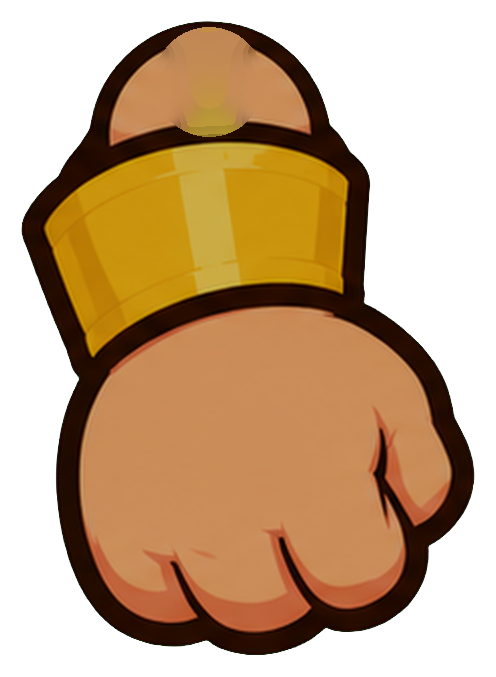
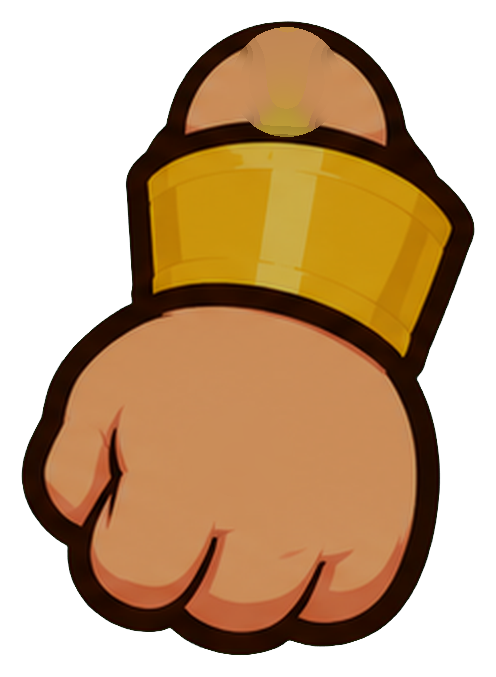
Zeus: antebraço de trás espelhado (não é mais cópia idêntica do da frente)
- extract_rig: 'mirror' vira a cópia e espelha pivô e encaixes

diff --git a/tools/extract_rig.py b/tools/extract_rig.py
@@ -82,10 +82,13 @@ for sheet, c in cfg.items():
         for nm in outs:
             rgb_ = crgb * (.8 if nm in c.get('darken', []) else 1)
             im = Image.fromarray(np.dstack([rgb_, ca * 255]).clip(0, 255).astype(np.uint8))
+            if nm in c.get('mirror', []): im = im.transpose(Image.FLIP_LEFT_RIGHT)
             if sc != 1.0: im = im.resize((round(im.width * sc), round(im.height * sc)), Image.LANCZOS)
             im.save(os.path.join(OUT, nm + '.png'), optimize=True)
         P = lambda p: [round(p[0] * sc, 1), round(p[1] * sc, 1)]
-        for nm in outs: pieces[nm] = { 'sheet': sheet, 'w': im.width, 'h': im.height, 'pivot': P(piv[0]), 'attach': sorted([P(q) for q in att], key=lambda q: (round(q[1] / 40), q[0])), 'pivots_found': len(piv) }
+        for nm in outs:
+            mx = (lambda q: [round(im.width - q[0], 1), q[1]]) if nm in c.get('mirror', []) else (lambda q: q)   # mirrored copy: mirror the measured points too
+            pieces[nm] = { 'sheet': sheet, 'w': im.width, 'h': im.height, 'pivot': mx(P(piv[0])), 'attach': sorted([mx(P(q)) for q in att], key=lambda q: (round(q[1] / 40), q[0])), 'pivots_found': len(piv) }
         dr.rectangle([x0 // UP, y0 // UP, x1 // UP, y1 // UP], outline=(255, 0, 0), width=3); dr.text((x0 // UP + 6, y0 // UP + 4), name, fill=(255, 255, 255))
         for q in piv: dr.ellipse([ (x0 + q[0]) / UP - 9, (y0 + q[1]) / UP - 9, (x0 + q[0]) / UP + 9, (y0 + q[1]) / UP + 9], outline=(255, 255, 255), width=3)
     dbg.save(os.path.join(OUT, sheet + '_debug.jpg'), quality=80)
